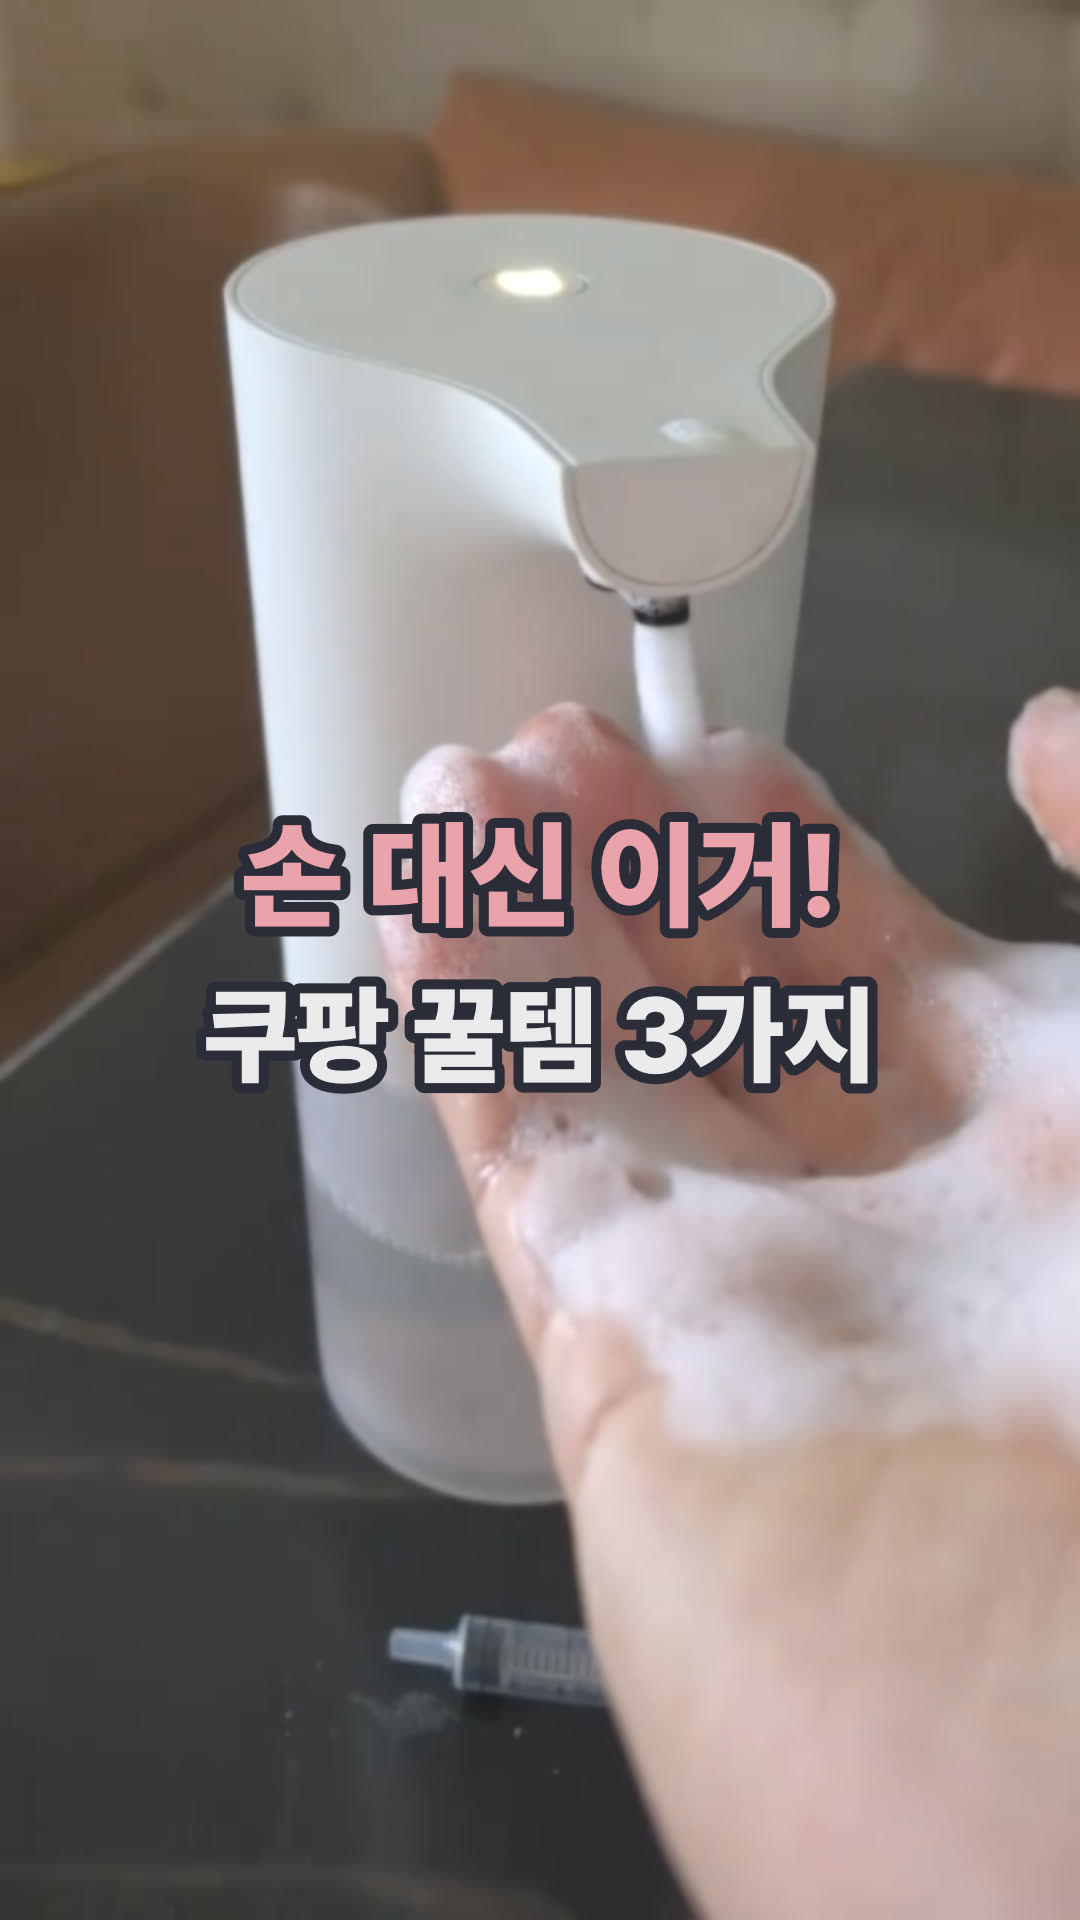
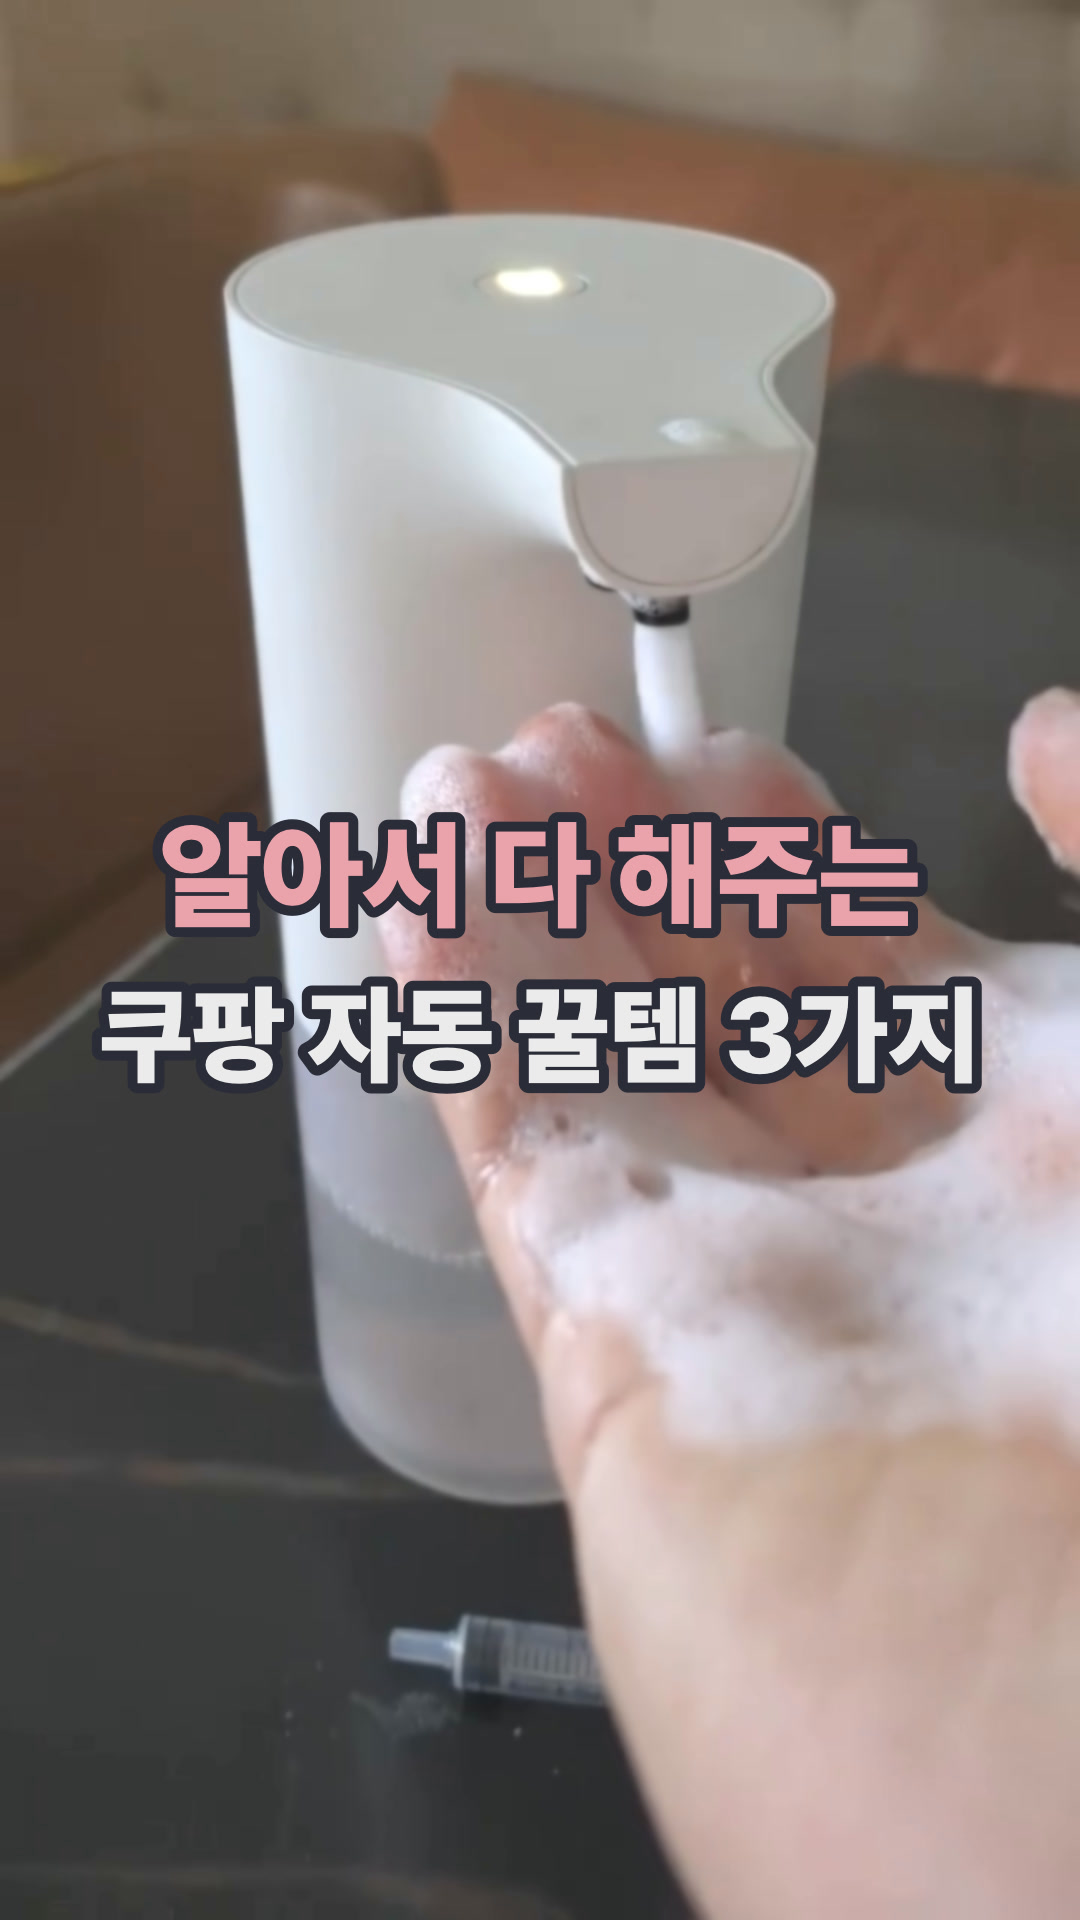
품절대란 오늘 공개, 11/18 영상 제목 교정(알아서 다 해주는 쿠팡 자동 꿀템 3가지)

Changed region(s): [[0.0917, 0.4062, 0.9167, 0.5938]]

diff --git a/index.html b/index.html
@@ -178,12 +178,12 @@ section[data-theme]:not(.featured) .cta{min-height:42px;margin-top:10px;backgrou
 @media (max-width:350px){main{padding-left:12px;padding-right:12px}.row{grid-template-columns:96px minmax(0,1fr);gap:12px}.photo img{width:96px;height:120px}.lede{font-size:21px}}
 @media (min-width:600px){.featured .photo img{aspect-ratio:4/3}}
 @media (min-width:800px){main{padding-top:48px}.video-list{grid-template-columns:1fr 1fr}.lede{font-size:28px}}
-</style></head><body><main><header><div class="brand"><span class="mark">사기 전</span>사기전노트<span class="tag">쿠팡 파트너스 · 광고</span></div></header><div class="search"><svg viewBox="0 0 20 20" fill="none" stroke="currentColor" stroke-width="1.8" stroke-linecap="round" aria-hidden="true"><circle cx="9" cy="9" r="6"/><path d="m13.5 13.5 3.5 3.5"/></svg><input id="q" type="search" aria-label="상품 이름 검색" placeholder="제품 이름으로 찾기 (예: 릴케이블)" autocomplete="off" enterkeyhint="search"><button id="clear-search" type="button" aria-label="검색어 지우기" hidden>지우기</button></div><nav class="views" aria-label="제품 찾기"><button type="button" id="latest-view" aria-pressed="true">전체 제품 (최신순)</button><button type="button" id="catalog-view" aria-pressed="false">영상별로 찾기</button></nav><p id="status" class="search-note" aria-live="polite" hidden></p><div id="recent" class="recent" hidden><div class="recent-head"><span>다른 영상 제품도 보기</span><a href="#videos" id="recent-all">전체 보기</a></div><div class="recent-list"></div></div><div id="catalog" hidden><div class="catalog-heading"><h1>다른 영상의 제품</h1><p id="video-count"></p></div><div id="video-list" class="video-list"></div></div><section data-theme="hand1118" id="hand1118" data-video-id="LGxRzsMLvC0" data-video-title="손 대신 이거! 쿠팡 꿀템 3가지" data-cover="t/hand1118-cover.webp" data-cover-kind="cover" data-keywords="손대신 쿠팡꿀템 꿀템 압축팩 진공압축팩 이불압축팩 전동펌프 캐리어 겨울옷 센서등 동작감지 LED 무선조명 옷장조명 자석 손전등 거품 손세정기 자동손세정기 디스펜서 핸드워시 3가지" hidden data-visible-from="2026-11-18T19:00:00+09:00">
+</style></head><body><main><header><div class="brand"><span class="mark">사기 전</span>사기전노트<span class="tag">쿠팡 파트너스 · 광고</span></div></header><div class="search"><svg viewBox="0 0 20 20" fill="none" stroke="currentColor" stroke-width="1.8" stroke-linecap="round" aria-hidden="true"><circle cx="9" cy="9" r="6"/><path d="m13.5 13.5 3.5 3.5"/></svg><input id="q" type="search" aria-label="상품 이름 검색" placeholder="제품 이름으로 찾기 (예: 릴케이블)" autocomplete="off" enterkeyhint="search"><button id="clear-search" type="button" aria-label="검색어 지우기" hidden>지우기</button></div><nav class="views" aria-label="제품 찾기"><button type="button" id="latest-view" aria-pressed="true">전체 제품 (최신순)</button><button type="button" id="catalog-view" aria-pressed="false">영상별로 찾기</button></nav><p id="status" class="search-note" aria-live="polite" hidden></p><div id="recent" class="recent" hidden><div class="recent-head"><span>다른 영상 제품도 보기</span><a href="#videos" id="recent-all">전체 보기</a></div><div class="recent-list"></div></div><div id="catalog" hidden><div class="catalog-heading"><h1>다른 영상의 제품</h1><p id="video-count"></p></div><div id="video-list" class="video-list"></div></div><section data-theme="hand1118" id="hand1118" data-video-id="grs__aLzYj8" data-video-title="알아서 다 해주는 쿠팡 자동 꿀템 3가지" data-cover="t/hand1118-cover.webp" data-cover-kind="cover" data-keywords="자동꿀템 알아서 쿠팡꿀템 꿀템 압축팩 진공압축팩 이불압축팩 전동펌프 캐리어 겨울옷 센서등 동작감지 LED 무선조명 옷장조명 자석 손전등 거품 손세정기 자동손세정기 디스펜서 핸드워시 3가지" hidden data-visible-from="2026-11-18T19:00:00+09:00">
 <article class="card" id="hand1118-1"><div class="row"><div class="photo"><img src="t/hand1118-1.webp" alt="전동 펌프로 공기를 빼는 옷 압축팩" width="480" height="853" loading="lazy" decoding="async"><span class="num">1</span></div><div><h2>진공 압축팩 + 전동 펌프</h2><p class="benefit">전동 펌프를 대기만 하면 부피 큰 겨울옷도 캐리어 속 짐도 납작하게</p><p class="option">초대용량 진공 이불 압축팩 + 전용펌프 세트 · 구성 옵션 확인</p><p class="shipping">구매 옵션 확인</p></div></div><a class="cta" href="https://link.coupang.com/a/ivDuB4pNjo" target="_blank" rel="sponsored noopener">쿠팡에서 상품 보기</a></article>
 <article class="card" id="hand1118-2"><div class="row"><div class="photo"><img src="t/hand1118-2.webp" alt="손에 든 막대형 무선 LED 센서등" width="480" height="853" loading="lazy" decoding="async"><span class="num">2</span></div><div><h2>무선 LED 센서등</h2><p class="benefit">선 없이 붙이면 옷장 문 열 때 자동으로 켜지고, 자석이라 떼서 손전등처럼</p><p class="option">멀티탁 LED 센서등 33cm · 화이트</p><p class="shipping">구매 옵션 확인</p></div></div><a class="cta" href="https://link.coupang.com/a/ivDuKYI1vg" target="_blank" rel="sponsored noopener">쿠팡에서 상품 보기</a></article>
 <article class="card" id="hand1118-3"><div class="row"><div class="photo"><img src="t/hand1118-3.webp" alt="손을 대자 거품이 나오는 흰색 자동 손세정기" width="480" height="853" loading="lazy" decoding="async"><span class="num">3</span></div><div><h2>자동 거품 손세정기</h2><p class="benefit">손만 갖다 대면 쫀쫀한 거품이 저절로, 펌프 누를 일 없이 깔끔하게</p><p class="option">APEXSO 젤/거품타입 자동 디스펜서 · 옵션 확인</p><p class="shipping">구매 옵션 확인</p></div></div><a class="cta" href="https://link.coupang.com/a/ivDuTt7Ja9" target="_blank" rel="sponsored noopener">쿠팡에서 상품 보기</a></article>
 <details><summary>구매 전에 이것만 확인하기</summary><p>영상 속 제품과 같은 종류의 쿠팡 상품이에요. 모양·색상이 조금 다를 수 있어요.</p><p>최종 가격·색상·옵션·배송·반품 정보는 쿠팡 화면에서 확인해 주세요.</p></details></section>
-<section data-theme="hot1117" id="hot1117" data-video-id="b0mhNd95y-g" data-video-title="쿠팡 품절대란 3가지 #사기전노트" data-cover="t/hot1117-cover.webp" data-cover-kind="cover" data-keywords="쿠팡 품절대란 치약 치약디스펜서 자동치약 치약짜개 칫솔 욕실 나노테이프 양면테이프 실리콘테이프 몬스터겔 투명테이프 무타공 못없이 액자 휴지통 센서휴지통 자동휴지통 쓰레기통 센서쓰레기통 3가지" hidden data-visible-from="2026-11-17T19:00:00+09:00">
+<section data-theme="hot1117" id="hot1117" data-video-id="b0mhNd95y-g" data-video-title="쿠팡 품절대란 3가지 #사기전노트" data-cover="t/hot1117-cover.webp" data-cover-kind="cover" data-keywords="쿠팡 품절대란 치약 치약디스펜서 자동치약 치약짜개 칫솔 욕실 나노테이프 양면테이프 실리콘테이프 몬스터겔 투명테이프 무타공 못없이 액자 휴지통 센서휴지통 자동휴지통 쓰레기통 센서쓰레기통 3가지" hidden data-visible-from="2026-11-08T21:00:00+09:00">
 <article class="card" id="hot1117-1"><div class="row"><div class="photo"><img src="t/hot1117-1.webp" alt="벽에 붙인 자동 치약 디스펜서" width="480" height="853" loading="lazy" decoding="async"><span class="num">1</span></div><div><h2>자동 치약 디스펜서</h2><p class="benefit">칫솔로 쓱 밀기만 하면 딱 한 번 쓸 양이 나오고, 분리해서 물 세척까지</p><p class="option">리얼피키 자동 치약 디스펜서 · 색상 옵션 확인</p><p class="shipping">구매 옵션 확인</p></div></div><a class="cta" href="https://link.coupang.com/a/ivBVd1SVga" target="_blank" rel="sponsored noopener">쿠팡에서 상품 보기</a></article>
 <article class="card" id="hot1117-2"><div class="row"><div class="photo"><img src="t/hot1117-2.webp" alt="나노 양면테이프로 벽에 붙인 액자" width="480" height="853" loading="lazy" decoding="async"><span class="num">2</span></div><div><h2>나노 양면테이프</h2><p class="benefit">투명한 나노 겔로 액자·러그·휴지 케이스까지 못 없이 벽에 착</p><p class="option">몬스터겔 다용도 초강력 실리콘 양면테이프 · 길이 옵션 확인</p><p class="shipping">구매 옵션 확인</p></div></div><a class="cta" href="https://link.coupang.com/a/ivBVYmbUs0" target="_blank" rel="sponsored noopener">쿠팡에서 상품 보기</a></article>
 <article class="card" id="hot1117-3"><div class="row"><div class="photo"><img src="t/hot1117-3.webp" alt="손을 대면 뚜껑이 열리는 흰색 센서 휴지통" width="480" height="853" loading="lazy" decoding="async"><span class="num">3</span></div><div><h2>센서 자동 휴지통</h2><p class="benefit">손만 갖다 대면 뚜껑이 스르륵 열리고 다시 저절로 닫혀요</p><p class="option">KUAHAI 자동 센서 쓰레기통 · 용량 옵션 확인</p><p class="shipping">구매 옵션 확인</p></div></div><a class="cta" href="https://link.coupang.com/a/ivBV6Llrhs" target="_blank" rel="sponsored noopener">쿠팡에서 상품 보기</a></article>
